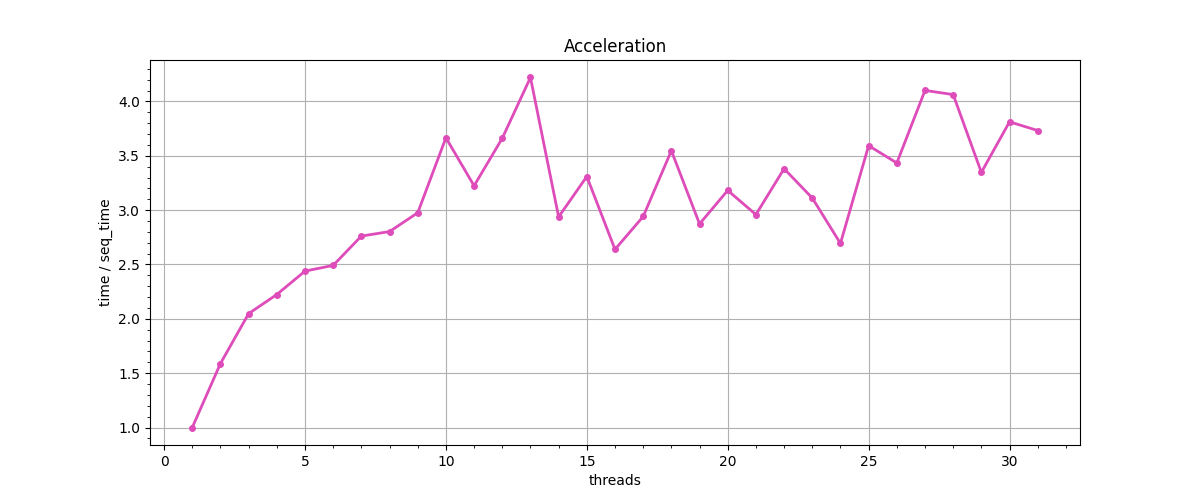
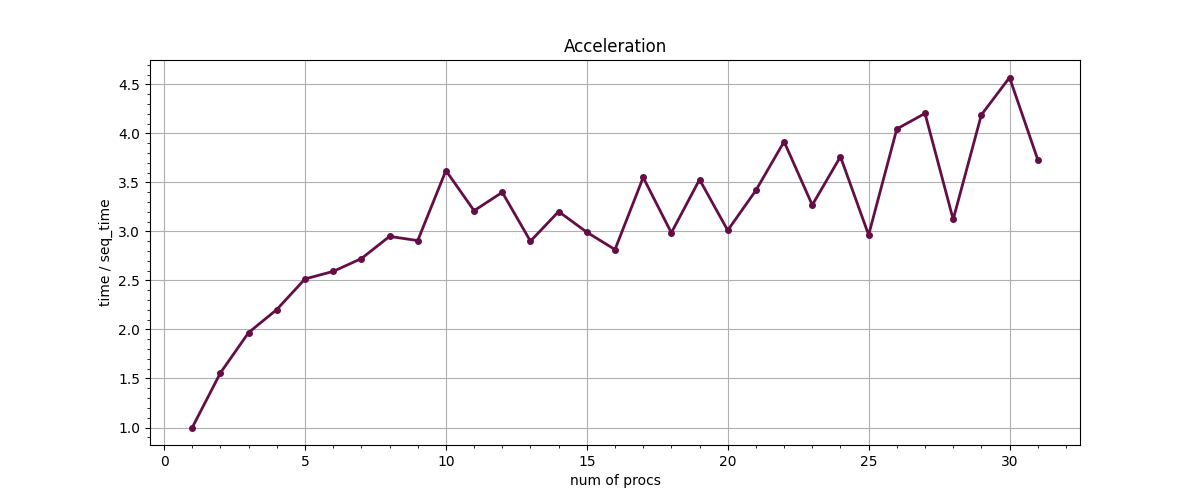
typo

diff --git a/TransportEquation/acceleration.py b/TransportEquation/acceleration.py
@@ -36,7 +36,7 @@ while threads < 32:
 plt.figure(figsize=[12, 5], dpi=100)
 plt.plot(list(sizes), accelerations, '-o', markersize=4, linewidth=2, label='y1', color = np.random.rand(3))
 
-plt.xlabel("threads")
+plt.xlabel("num of procs")
 plt.ylabel("time / seq_time")
 plt.title("Acceleration")
 plt.minorticks_on()
@@ -51,7 +51,7 @@ plt.savefig('Acceleration.png')
 
 plt.figure(figsize=[12, 5], dpi=100)
 plt.plot(list(sizes), efficiencies, '-o', markersize=4, linewidth=2, label='y1', color = np.random.rand(3))
-plt.xlabel("threads")
+plt.xlabel("num of procs")
 plt.ylabel("time / (seq_time * processes)")
 plt.title("Efficiency")
 plt.minorticks_on()

diff --git a/TransportEquation/README.md b/TransportEquation/README.md
@@ -1,6 +1,6 @@
 # Parallel solving of transport equation via rectangle scheme.
 ## Equation
-### Here the equation below is sold via rectangle scheme.
+### Here the equation below is solved via rectangle scheme.
 Read [here](https://en.wikipedia.org/wiki/Finite_difference_method#Explicit_method) about Finite difference methods.
 ![img.png](graphs/img.png)
 
